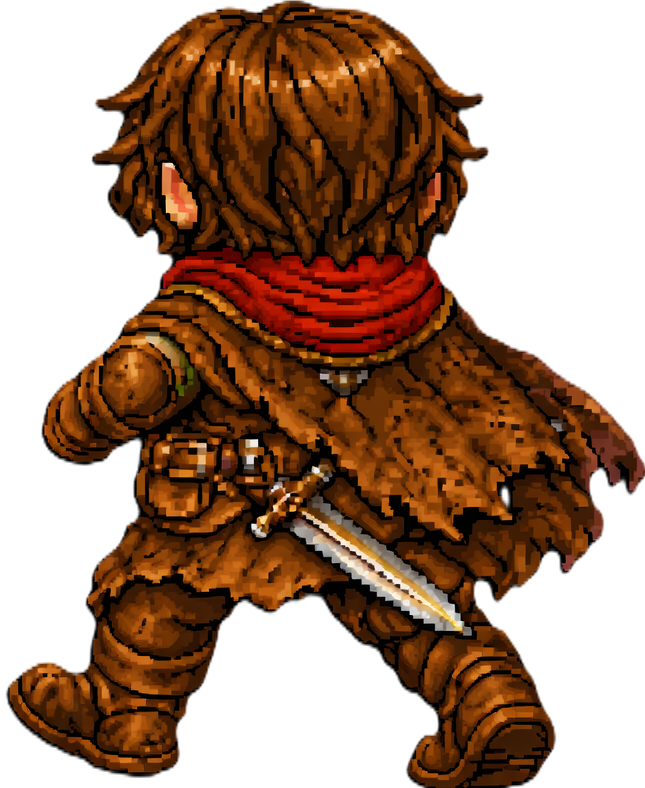
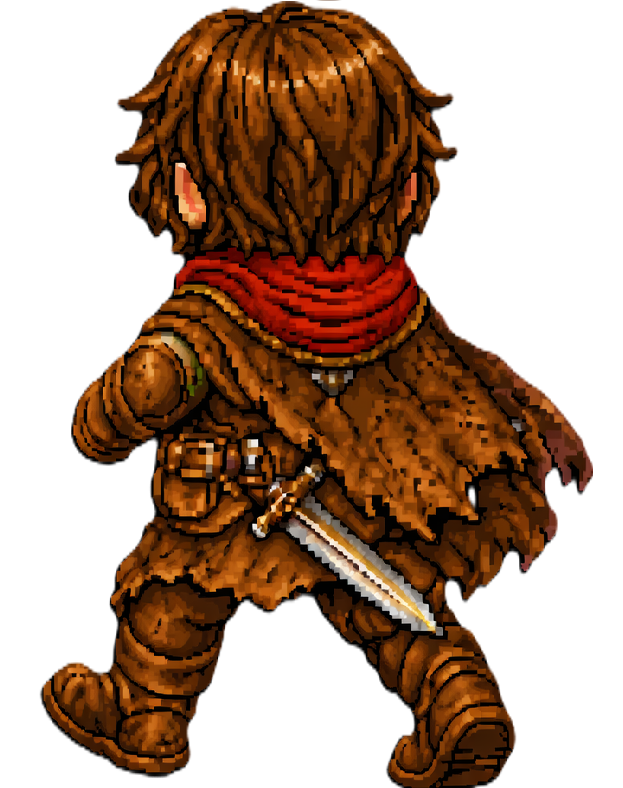
歩行モーション追加、ドラッグでプレビューを操作

diff --git a/src/app/develop/develop.component.ts b/src/app/develop/develop.component.ts
@@ -39,6 +39,12 @@ export class DevelopComponent implements OnInit, AfterViewInit {
     drawStartPos: { x: number, y: number } | null = null;
     tempObject: any | null = null;
 
+    // Isometric Preview パン用ステート
+    isoPanX: number = 0;
+    isoPanY: number = 0;
+    isIsoPanning: boolean = false;
+    private lastIsoMousePos: { x: number, y: number } | null = null;
+
     constructor(private assetLoader: AssetLoaderService) { }
 
     async ngOnInit(): Promise<void> {
@@ -95,6 +101,9 @@ export class DevelopComponent implements OnInit, AfterViewInit {
         // 編集のためにディープコピー
         this.selectedMapData = JSON.parse(JSON.stringify(data));
         if (this.selectedMapData) {
+            // マップ切り替え時にパンをリセット
+            this.isoPanX = 0;
+            this.isoPanY = 0;
             this.buildPreviewGrid();
             this.renderIsoPreview();
         }
@@ -322,15 +331,19 @@ export class DevelopComponent implements OnInit, AfterViewInit {
         const tileW = 16; // プレビュー用のタイル幅 (縮小)
         const tileH = 8;  // プレビュー用のタイル高さ (縮小)
 
-        // キャンバスサイズを調整
-        canvas.width = (width + height) * (tileW / 2) + 20;
-        canvas.height = (width + height) * (tileH / 2) + 20;
+        // キャンバスサイズを親要素に合わせるか、固定にする
+        // ここでは親要素の幅を活用しつつ、高さはコンテンツに合わせる
+        const container = canvas.parentElement;
+        if (container) {
+            canvas.width = container.clientWidth;
+            canvas.height = 400; // 固定の高さにするか、CSSで制御
+        }
 
         ctx.clearRect(0, 0, canvas.width, canvas.height);
 
-        // 中心をオフセット
-        const offsetX = canvas.width / 2;
-        const offsetY = 10;
+        // 中心をオフセット (パンを考慮)
+        const offsetX = (canvas.width / 2) + this.isoPanX;
+        const offsetY = 50 + this.isoPanY; // 少し余裕を持たせる
 
         // タイル描画の補助関数
         const drawIsoTile = (x: number, y: number, color: string, isWall: boolean = false, highlight: boolean = false) => {
@@ -449,5 +462,32 @@ export class DevelopComponent implements OnInit, AfterViewInit {
 
     trackByRow(index: number, row: any): string {
         return index.toString();
+    }
+
+    // --- Isometric Preview Mouse Events ---
+
+    onIsoMouseDown(event: MouseEvent): void {
+        this.isIsoPanning = true;
+        this.lastIsoMousePos = { x: event.clientX, y: event.clientY };
+    }
+
+    @HostListener('window:mousemove', ['$event'])
+    onIsoMouseMove(event: MouseEvent): void {
+        if (!this.isIsoPanning || !this.lastIsoMousePos) return;
+
+        const dx = event.clientX - this.lastIsoMousePos.x;
+        const dy = event.clientY - this.lastIsoMousePos.y;
+
+        this.isoPanX += dx;
+        this.isoPanY += dy;
+
+        this.lastIsoMousePos = { x: event.clientX, y: event.clientY };
+        this.renderIsoPreview();
+    }
+
+    @HostListener('window:mouseup')
+    onIsoMouseUp(): void {
+        this.isIsoPanning = false;
+        this.lastIsoMousePos = null;
     }
 }

diff --git a/src/app/game/engine/renderer.ts b/src/app/game/engine/renderer.ts
@@ -163,8 +163,15 @@ export class Renderer {
     console.log("player.facing:" + player.facing);
 
     const isBack = player.facing === 'rightBack' || player.facing === 'leftBack';
-    const suffix = player.isMoving ? '_go' : '_stop';
-    const texKey = isBack ? `player_back${suffix}` : `player_forward${suffix}`;
+
+    // 歩行アニメーション: 移動中はタイマーに基づいて _go と _stop を交互に切り替える
+    let animatingSuffix = '_stop';
+    if (player.isMoving) {
+      // PLAYER_ANIM_SPEED 秒ごとに切り替え
+      animatingSuffix = (Math.floor(player.animationTimer / GAME_CONSTANTS.PLAYER_ANIM_SPEED) % 2 === 0) ? '_go' : '_stop';
+    }
+
+    const texKey = isBack ? `player_back${animatingSuffix}` : `player_forward${animatingSuffix}`;
     const tex = this.assetLoader.getTexture(texKey);
 
     if (tex) {
@@ -175,10 +182,10 @@ export class Renderer {
     this.playerSprite.width = GAME_CONSTANTS.PLAYER_WIDTH;
     this.playerSprite.height = GAME_CONSTANTS.PLAYER_HEIGHT;
 
-    // scale.x の符号で向きを制御（背面向きの場合は反転させない）
-    if (player.facing === 'leftForward' || player.facing === 'leftBack') {
-      this.playerSprite.scale.x = Math.abs(this.playerSprite.scale.x);
-    } else if (player.facing === 'rightForward' || player.facing === 'rightBack') {
+    // scale.x の符号で向きを制御
+    // rightForward / rightBack は右向き（デフォルトテクスチャが左向きと仮定して反転）
+    // leftForward / leftBack は左向き
+    if (player.facing === 'rightForward' || player.facing === 'rightBack') {
       this.playerSprite.scale.x = -Math.abs(this.playerSprite.scale.x);
     } else {
       this.playerSprite.scale.x = Math.abs(this.playerSprite.scale.x);

diff --git a/src/app/develop/develop.component.css b/src/app/develop/develop.component.css
@@ -348,7 +348,7 @@ nav button:hover {
     padding: 1rem;
     border-radius: 8px;
     border: 1px solid #333;
-    max-height: 40vh;
+    max-height: 50vh;
     display: flex;
     justify-content: center;
 }
@@ -551,6 +551,28 @@ td {
 
 .map-iso-container canvas {
     max-width: 100%;
+    height: auto;
+    image-rendering: pixelated;
+}
+.map-iso-container {
+    width: 100%;
+    height: 400px;
+    overflow: hidden;
+    position: relative;
+    background: #0a0a0a;
+    border-radius: 4px;
+    border: 1px solid #333;
+    cursor: grab;
+    display: block !important;
+}
+
+.map-iso-container:active {
+    cursor: grabbing;
+}
+
+.map-iso-container canvas {
+    display: block;
+    max-width: none !important;
     height: auto;
     image-rendering: pixelated;
 }

diff --git a/src/app/game/engine/player.ts b/src/app/game/engine/player.ts
@@ -17,6 +17,9 @@ export class Player {
   /** プレイヤーの向き: 右方向='rightForward', 左方向='leftForward', 右後ろ='rightBack', 左後ろ='leftBack' */
   facing: PlayerFacing = 'rightForward';
 
+  /** アニメーション用の経過時間 */
+  animationTimer = 0;
+
   /** 移動中かどうか */
   get isMoving(): boolean {
     return Vector2.distance({ x: this.x, y: this.y }, { x: this.targetX, y: this.targetY }) > GAME_CONSTANTS.PLAYER_STOP_THRESHOLD;
@@ -40,6 +43,7 @@ export class Player {
   }
 
   update(delta: number) {
+    this.animationTimer += delta;
     this.currentState.update(delta);
   }
 }

diff --git a/src/app/develop/develop.component.html b/src/app/develop/develop.component.html
@@ -120,7 +120,7 @@
                     <div class="map-preview-section">
                         <h3>Isometric Preview</h3>
                         <div class="map-iso-container">
-                            <canvas #isoCanvas></canvas>
+                            <canvas #isoCanvas (mousedown)="onIsoMouseDown($event)"></canvas>
                         </div>
                     </div>
                 </div>

diff --git a/src/app/game/engine/constants.ts b/src/app/game/engine/constants.ts
@@ -17,6 +17,9 @@ export const GAME_CONSTANTS = {
 
     // 壁の設定
     WALL_HEIGHT: 20,
+
+    // アニメーション設定
+    PLAYER_ANIM_SPEED: 0.25, // 1ステップ（go/stop）の秒数
 };
 
 /** 座標インターフェース */
